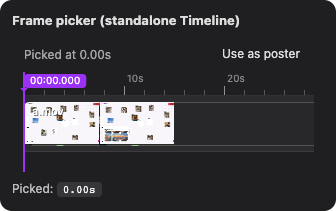
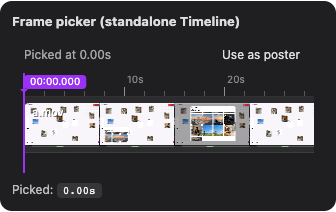
chore: scripts/screenshots.sh + pnpm screenshots alias
Wraps the playwright spec behind a single entry point, fails fast when
the seed mp4 is missing (with a paste-able fix), and lists the
regenerated files at the end. README updated to reference the new
command.

diff --git a/README.md b/README.md
@@ -466,8 +466,9 @@ cd backends/go && go run .         # http://127.0.0.1:8788
 pnpm typecheck                     # whole workspace, strict TS
 pnpm test                          # Vitest unit tests (packages/core)
 pnpm test:e2e                      # Playwright against the live demo
-pnpm --filter @aicut/e2e exec playwright test screenshots.spec.ts
-                                   # regenerate docs/screenshots/*.png
+pnpm screenshots                   # regenerate docs/screenshots/*.png
+                                   # (drop any short clip at examples/
+                                   # react-demo/public/sample.mp4 first)
 ```
 
 ### Release